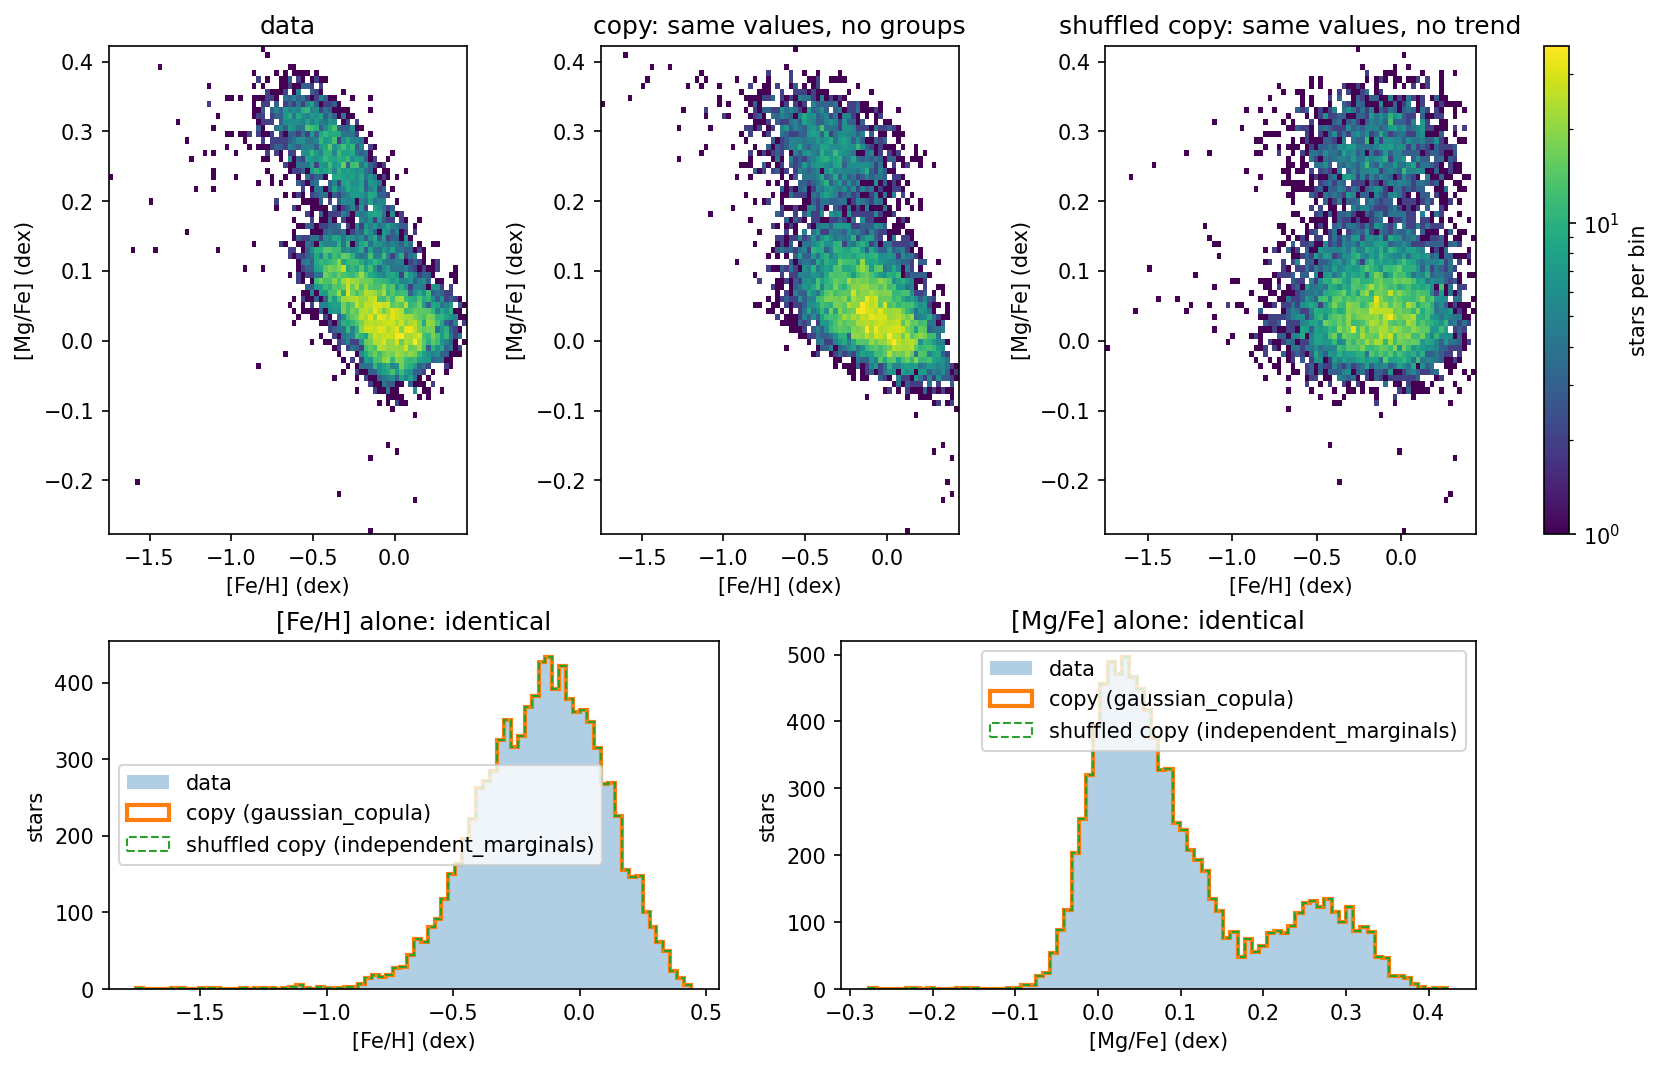
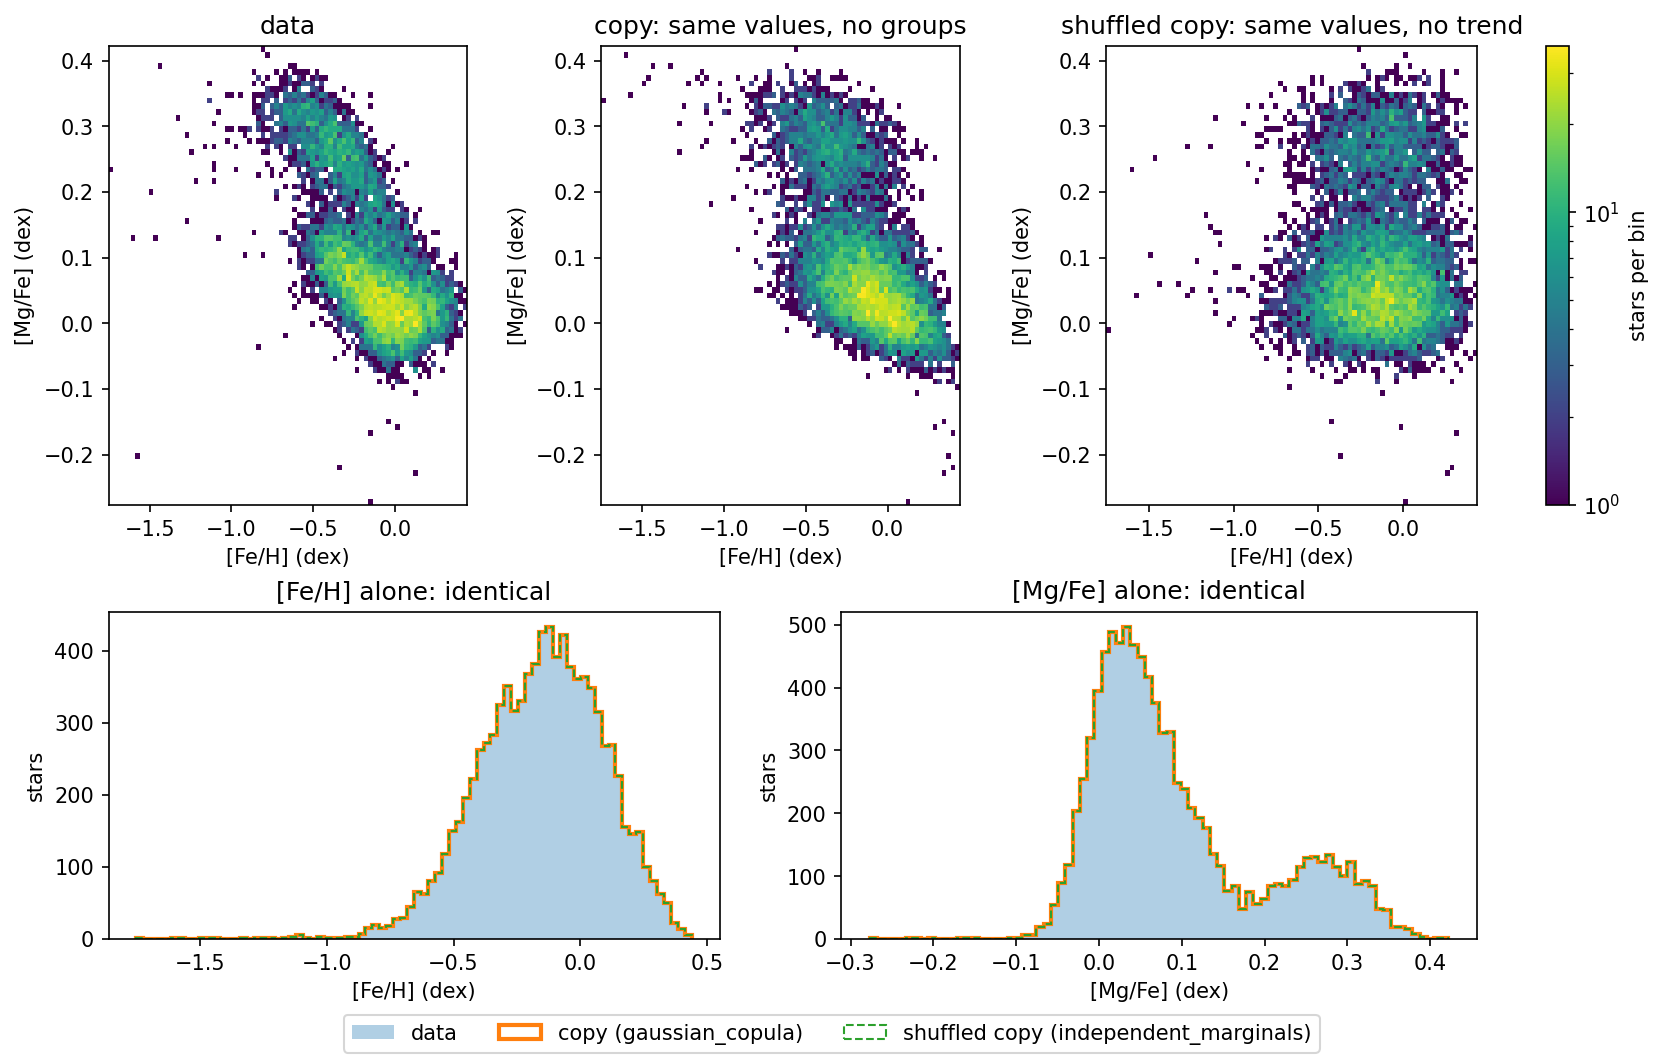
Fixed the legend overlap in the surrogate figure and removed wall-clock times from notebook 03

diff --git a/notebooks/03_calibration.py b/notebooks/03_calibration.py
@@ -45,8 +45,7 @@
 # times the fits of the rest of a run. This is why `recover` skips it by default
 # and `starfold.null_test` runs it as a separate step.
 #
-# The recorded tests below took 791 s (Digits) and 2,176 s (APOGEE) of wall time
-# on a laptop RTX 3060. This notebook does not rerun them.
+# Each recorded test below made 1,938 fits. This notebook does not rerun them.
 
 # %%
 import sys
@@ -187,7 +186,8 @@ for ax, column, edges, label in (
         label="shuffled copy (independent_marginals)",
     )
     ax.set(title=f"{label} alone: identical", xlabel=f"{label} (dex)", ylabel="stars")
-    ax.legend()
+handles, labels = axes["m0"].get_legend_handles_labels()
+fig.legend(handles, labels, loc="outside lower center", ncol=3)
 save_figure(fig, "apogee_surrogate.png")
 plt.show()
 
